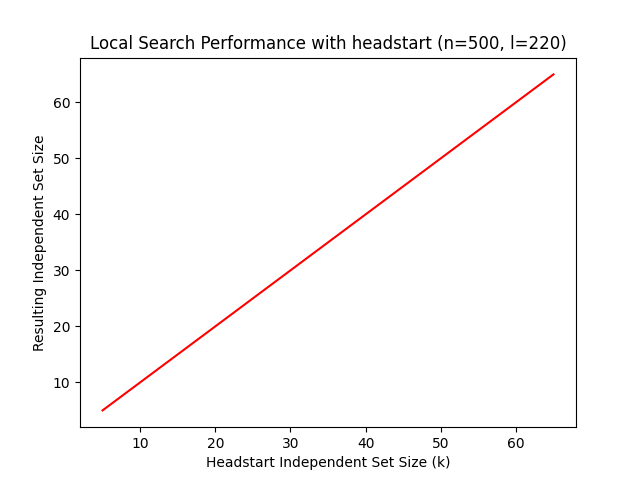
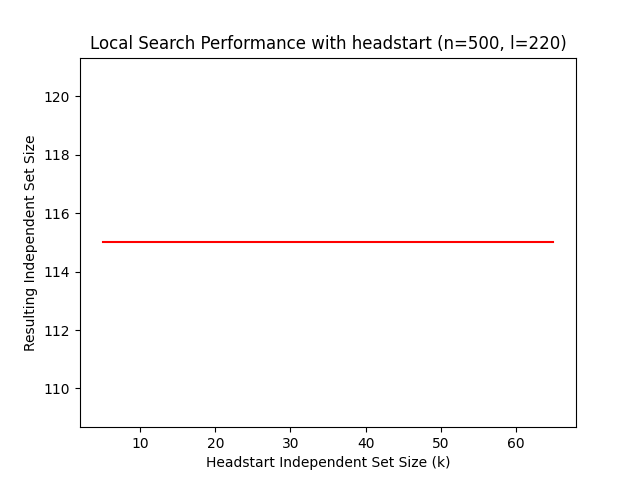
.

diff --git a/experiment.py b/experiment.py
@@ -33,16 +33,18 @@ def planted_intersection_sizes(n: int) -> (int, int):
 
 # This is the number of 'extra' nodes to include in the initial subset
 def planted_subset_sizes(n: int) -> (int, int):
-    return (10, 10 * math.ceil(math.sqrt(n)))
+    return (10 * math.ceil(math.sqrt(n)) - 10, 10 * math.ceil(math.sqrt(n)))
 
 # The probability that edges exist
 EDGE_PROBABILITY: float = 0.5
 # Key provided to every node which is part of the planted independent subset
 PLANTED_KEY: str = "beta"
 # The step size for k and l
-STEP_SIZE: int = 10
+STEP_SIZE: int = 20
 # The maximum number of steps an optimizer can run before we stop it
-MAX_OPTIMIZER_STEPS: int = 100
+MAX_OPTIMIZER_STEPS: int = 200
+# Print debug statements to track what is going on
+PRINT_DEBUG: bool = True
 # The local optimizer used to solve the instance provided
 local_optimizer: LocalOptimizer = BasicLocalOptimizer()
 
@@ -124,6 +126,8 @@ def test_local_search(n: [int], num_trials):
         # Generate metadata about the trial
         planted_size: int = planted_ind_set_size(n_value)
         planted_size = planted_size if planted_size < n_value else n_value
+        if (PRINT_DEBUG):
+            print(f"Running experiments for n={n_value} with planted_size={planted_size}")
 
         k_init, k_final = planted_intersection_sizes(n_value)       # k is the size of the intersection
         l_init, l_final = planted_subset_sizes(n_value)             # l is the size of the headstart set in total
@@ -135,8 +139,12 @@ def test_local_search(n: [int], num_trials):
             # Pre-process some data out of G
             erdos_nodes: [int] = set(G.nodes).difference(B)
 
+            if PRINT_DEBUG:
+                print(f'l_init={l_init}, l_final={l_final}, k_init={k_init}, k_final={k_final}')
             for l in range(l_init, l_final, STEP_SIZE):
                 for k in range(k_init, min(k_final, l), STEP_SIZE):
+                    if PRINT_DEBUG:
+                        print(f"Running l={l}, k={k}")
                     # TODO: Fix bound issues on runs with less than ~500 nodes
                     if len(B) < k:
                         raise RuntimeError("The planted size is smaller than the requested subset size.")
@@ -154,7 +162,7 @@ def test_local_search(n: [int], num_trials):
     #? Results have been collected. Create dir and plot results
     for n_value in n:
         dir_name: str = generate_results_directory(n_value, num_trials)
-        create_dir(dir_name)
+        dir_name = create_dir(dir_name)
         # For now, just pull the largest l value
         l_value = results.get_largest_l(n_value)
         
@@ -172,3 +180,8 @@ def test_local_search(n: [int], num_trials):
 
 if __name__ == "__main__":
     run()
+
+"""
+SHORTCUTS
+./experiment.py test-local-search -n 500
+"""

diff --git a/util/local_optimization.py b/util/local_optimization.py
@@ -20,7 +20,6 @@ class BasicLocalOptimizer(LocalOptimizer):
         return nx.density(nx.subgraph(G, subset))
 
     def optimize(self, initial: set, G: nx.Graph, max_steps: int) -> set:
-        return initial
         # Pre-process and store some results
         nodes: set = set(G.nodes)
         subset: set = initial
@@ -30,33 +29,34 @@ class BasicLocalOptimizer(LocalOptimizer):
 
             #? Get the best vertex to add / remove from the graph
             k: int = len(subset)
-            edge_boundary = [nx.edge_boundary(
+            edge_boundary = [
+                sum((1 for i in nx.edge_boundary(
                 G,
                 set([v]),
-                subset)
+                subset)))
                 for v in nodes
             ]
-            add_index = np.argmin(edge_boundary)
+            add_index = np.argmin([float('inf') if i in subset else edge_boundary[i] for i in nodes])
             add_degree = edge_boundary[add_index]
 
             # TODO: Go through and make sure we are pulling from the correct vertices
-            rem_index = np.argmax(edge_boundary)
+            rem_index = np.argmax([-1 if i not in subset else edge_boundary[i] for i in nodes])
             rem_degree = edge_boundary[rem_index]
 
-            add_density: float = (starting_density * k * (k-1) + add_degree) / (k (k+1))
+            add_density: float = (starting_density * k * (k-1) + add_degree) / (k * (k+1))
             rem_density: float = (starting_density * k * (k - 1) - rem_degree) / ((k - 1) * (k - 2))
 
             # Split into cases based on density
-            if add_density < starting_density and rem_density < starting_density:
-                # TODO: Need to add this case!
-                pass
-            elif add_density < starting_density:
-                subset.add(add_index)
-            elif rem_density < starting_density:
-                subset.remove(rem_index)
-            else:
-                # Implicit neither improves, we have hit a local optimum
+            if add_density >= starting_density and rem_density >= starting_density:
+                # print('returned')
                 return subset
+            else:
+                # One of them is smaller
+                if add_density < rem_density:
+                    subset.add(add_index)
+                else:
+                    # print("rem", rem_density, starting_density)
+                    subset.remove(rem_index)
 
         # We ran out of steps, return what we have right now
         if DEBUG_PRINT:

diff --git a/util/plot.py b/util/plot.py
@@ -55,6 +55,7 @@ class PlotArgs:
             plt.legend()
 
         if self.directory:
+            print(self.directory, self.file_name)
             plt.savefig(f"{self.directory}/{self.file_name}.png")
         else:
             plt.savefig(f"{self.file_name}.png")
@@ -95,7 +96,7 @@ def store_graph(g: nx.Graph, file_name: str, with_labels: bool = False):
 
 
 # Creates a directory if it doesn't already exists
-def create_dir(name: str):
+def create_dir(name: str) -> str:
     number = 0
     directory = name
     if os.path.isdir(directory):
@@ -106,3 +107,4 @@ def create_dir(name: str):
         number += 1
         directory = f"{name}({number})"
     os.mkdir(directory)
+    return directory
